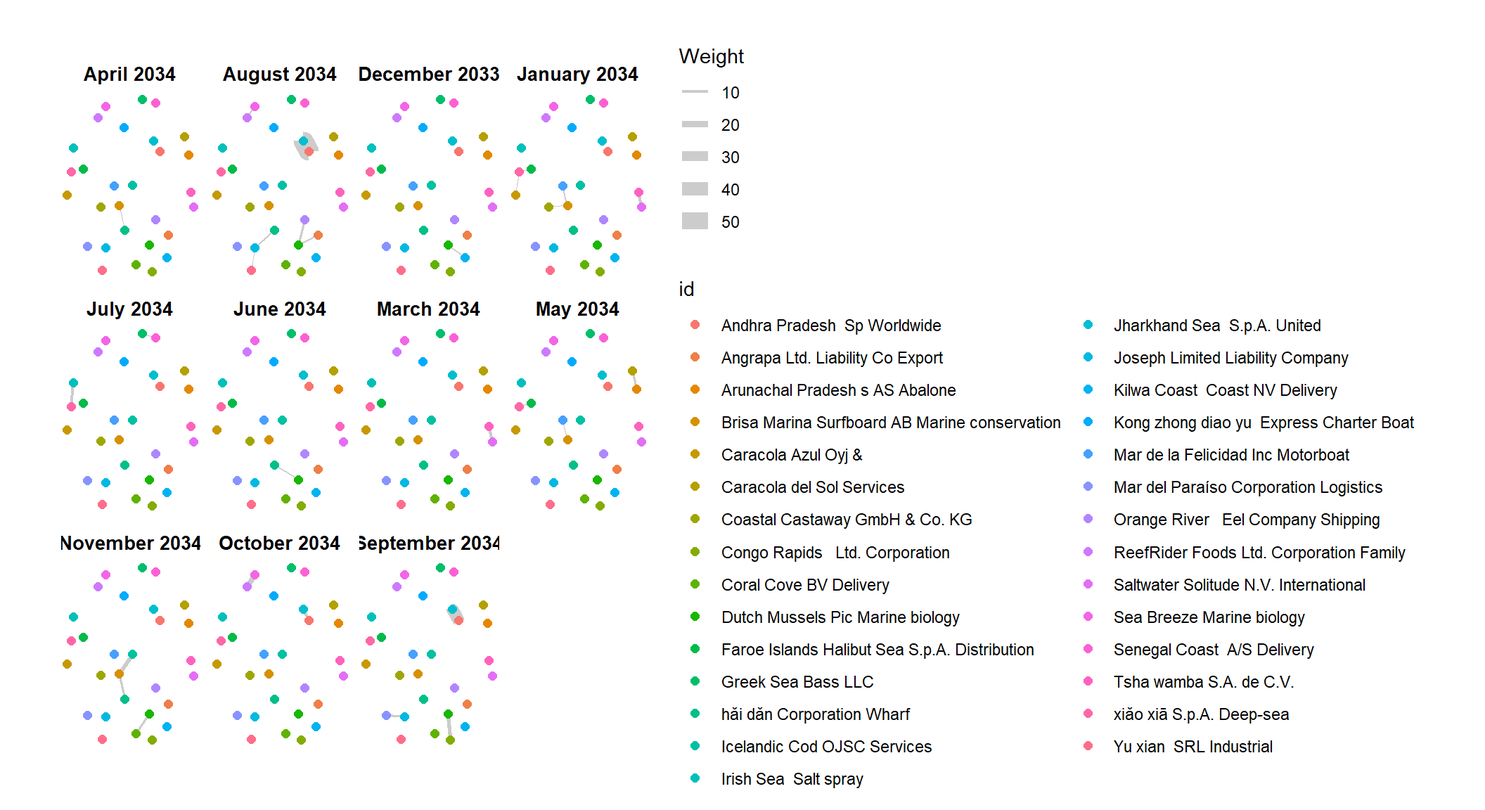
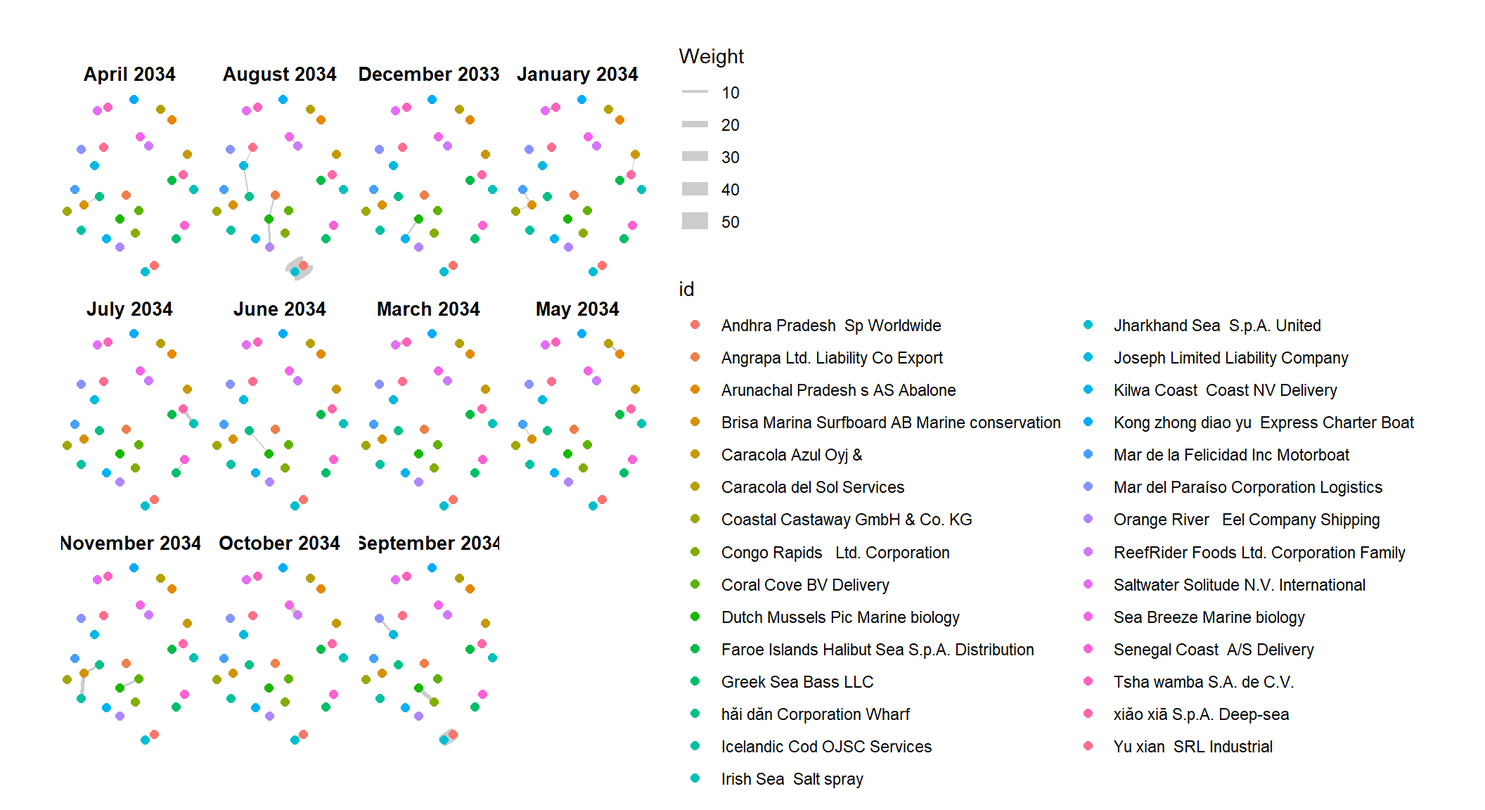
commit take home ex 2

diff --git a/_site/Take-home_Ex/Take-home_Ex02/Take-home_Ex02.html b/_site/Take-home_Ex/Take-home_Ex02/Take-home_Ex02.html
@@ -299,7 +299,7 @@ code span.wa { color: #60a0b0; font-weight: bold; font-style: italic; } /* Warni
     <div>
     <div class="quarto-title-meta-heading">Modified</div>
     <div class="quarto-title-meta-contents">
-      <p class="date-modified">May 26, 2023</p>
+      <p class="date-modified">May 27, 2023</p>
     </div>
   </div>
     
@@ -744,9 +744,15 @@ Note
 <span id="cb32-2"><a href="#cb32-2" aria-hidden="true" tabindex="-1"></a>            <span class="at">layout =</span> <span class="st">"nicely"</span>) <span class="sc">+</span> </span>
 <span id="cb32-3"><a href="#cb32-3" aria-hidden="true" tabindex="-1"></a>  <span class="fu">geom_edge_link</span>(<span class="fu">aes</span>(<span class="at">width=</span>Weight), </span>
 <span id="cb32-4"><a href="#cb32-4" aria-hidden="true" tabindex="-1"></a>                 <span class="at">alpha=</span><span class="fl">0.2</span>) <span class="sc">+</span></span>
-<span id="cb32-5"><a href="#cb32-5" aria-hidden="true" tabindex="-1"></a>  <span class="fu">scale_edge_width</span>(<span class="at">range =</span> <span class="fu">c</span>(<span class="fl">0.1</span>, <span class="dv">5</span>)) <span class="sc">+</span></span>
+<span id="cb32-5"><a href="#cb32-5" aria-hidden="true" tabindex="-1"></a>  <span class="fu">scale_edge_width</span>(<span class="at">range =</span> <span class="fu">c</span>(<span class="fl">0.1</span>, <span class="dv">8</span>)) <span class="sc">+</span></span>
 <span id="cb32-6"><a href="#cb32-6" aria-hidden="true" tabindex="-1"></a>  <span class="fu">geom_node_point</span>(<span class="fu">aes</span>(<span class="at">colour =</span> id), </span>
-<span id="cb32-7"><a href="#cb32-7" aria-hidden="true" tabindex="-1"></a>                  <span class="at">size =</span> <span class="dv">2</span>)</span></code><button title="Copy to Clipboard" class="code-copy-button"><i class="bi"></i></button></pre></div>
+<span id="cb32-7"><a href="#cb32-7" aria-hidden="true" tabindex="-1"></a>                  <span class="at">size =</span> <span class="dv">5</span>) <span class="sc">+</span></span>
+<span id="cb32-8"><a href="#cb32-8" aria-hidden="true" tabindex="-1"></a>  <span class="fu">theme</span>(<span class="at">legend.key.size =</span> <span class="fu">unit</span>(<span class="fl">0.7</span>, <span class="st">'cm'</span>), <span class="co">#change legend key size</span></span>
+<span id="cb32-9"><a href="#cb32-9" aria-hidden="true" tabindex="-1"></a>        <span class="at">legend.key.height =</span> <span class="fu">unit</span>(<span class="fl">0.7</span>, <span class="st">'cm'</span>), <span class="co">#change legend key height</span></span>
+<span id="cb32-10"><a href="#cb32-10" aria-hidden="true" tabindex="-1"></a>        <span class="at">legend.key.width =</span> <span class="fu">unit</span>(<span class="fl">0.7</span>, <span class="st">'cm'</span>), <span class="co">#change legend key width</span></span>
+<span id="cb32-11"><a href="#cb32-11" aria-hidden="true" tabindex="-1"></a>        <span class="at">legend.title =</span> <span class="fu">element_text</span>(<span class="at">size=</span><span class="dv">14</span>), <span class="co">#change legend title font size</span></span>
+<span id="cb32-12"><a href="#cb32-12" aria-hidden="true" tabindex="-1"></a>        <span class="at">legend.text =</span> <span class="fu">element_text</span>(<span class="at">size=</span><span class="dv">12</span>),</span>
+<span id="cb32-13"><a href="#cb32-13" aria-hidden="true" tabindex="-1"></a>        <span class="at">legend.position =</span> <span class="st">"bottom"</span>,<span class="at">legend.direction =</span> <span class="st">"vertical"</span>)</span></code><button title="Copy to Clipboard" class="code-copy-button"><i class="bi"></i></button></pre></div>
 </details>
 <div class="cell-output-display">
 <p><img src="Take-home_Ex02_files/figure-html/unnamed-chunk-14-1.png" class="img-fluid" width="1248"></p>
@@ -762,12 +768,19 @@ Note
 <div class="sourceCode cell-code" id="cb33"><pre class="sourceCode r code-with-copy"><code class="sourceCode r"><span id="cb33-1"><a href="#cb33-1" aria-hidden="true" tabindex="-1"></a>g <span class="ot">&lt;-</span> <span class="fu">ggraph</span>(MC2_graph, </span>
 <span id="cb33-2"><a href="#cb33-2" aria-hidden="true" tabindex="-1"></a>            <span class="at">layout =</span> <span class="st">"nicely"</span>) <span class="sc">+</span> </span>
 <span id="cb33-3"><a href="#cb33-3" aria-hidden="true" tabindex="-1"></a>  <span class="fu">geom_edge_link</span>(<span class="fu">aes</span>(<span class="at">width=</span>Weight), </span>
-<span id="cb33-4"><a href="#cb33-4" aria-hidden="true" tabindex="-1"></a>                 <span class="at">alpha=</span><span class="fl">0.2</span>) <span class="sc">+</span></span>
+<span id="cb33-4"><a href="#cb33-4" aria-hidden="true" tabindex="-1"></a>                 <span class="at">alpha=</span><span class="fl">0.2</span>, <span class="at">show.legend =</span> <span class="st">"top"</span>) <span class="sc">+</span></span>
 <span id="cb33-5"><a href="#cb33-5" aria-hidden="true" tabindex="-1"></a>  <span class="fu">scale_edge_width</span>(<span class="at">range =</span> <span class="fu">c</span>(<span class="fl">0.1</span>, <span class="dv">5</span>)) <span class="sc">+</span></span>
 <span id="cb33-6"><a href="#cb33-6" aria-hidden="true" tabindex="-1"></a>  <span class="fu">geom_node_point</span>(<span class="fu">aes</span>(<span class="at">colour =</span> id), </span>
-<span id="cb33-7"><a href="#cb33-7" aria-hidden="true" tabindex="-1"></a>                  <span class="at">size =</span> <span class="dv">2</span>)</span>
-<span id="cb33-8"><a href="#cb33-8" aria-hidden="true" tabindex="-1"></a></span>
-<span id="cb33-9"><a href="#cb33-9" aria-hidden="true" tabindex="-1"></a>g <span class="sc">+</span> <span class="fu">facet_edges</span>(<span class="sc">~</span>year)</span></code><button title="Copy to Clipboard" class="code-copy-button"><i class="bi"></i></button></pre></div>
+<span id="cb33-7"><a href="#cb33-7" aria-hidden="true" tabindex="-1"></a>                  <span class="at">size =</span> <span class="dv">2</span>) <span class="sc">+</span></span>
+<span id="cb33-8"><a href="#cb33-8" aria-hidden="true" tabindex="-1"></a>  <span class="fu">theme</span>(<span class="at">legend.key.size =</span> <span class="fu">unit</span>(<span class="fl">0.7</span>, <span class="st">'cm'</span>), <span class="co">#change legend key size</span></span>
+<span id="cb33-9"><a href="#cb33-9" aria-hidden="true" tabindex="-1"></a>        <span class="at">legend.key.height =</span> <span class="fu">unit</span>(<span class="fl">0.7</span>, <span class="st">'cm'</span>), <span class="co">#change legend key height</span></span>
+<span id="cb33-10"><a href="#cb33-10" aria-hidden="true" tabindex="-1"></a>        <span class="at">legend.key.width =</span> <span class="fu">unit</span>(<span class="fl">0.7</span>, <span class="st">'cm'</span>), <span class="co">#change legend key width</span></span>
+<span id="cb33-11"><a href="#cb33-11" aria-hidden="true" tabindex="-1"></a>        <span class="at">legend.title =</span> <span class="fu">element_text</span>(<span class="at">size=</span><span class="dv">14</span>), <span class="co">#change legend title font size</span></span>
+<span id="cb33-12"><a href="#cb33-12" aria-hidden="true" tabindex="-1"></a>        <span class="at">legend.text =</span> <span class="fu">element_text</span>(<span class="at">size=</span><span class="dv">12</span>),</span>
+<span id="cb33-13"><a href="#cb33-13" aria-hidden="true" tabindex="-1"></a>        <span class="at">legend.position =</span> <span class="st">"bottom"</span>) <span class="co">#change legend text font size</span></span>
+<span id="cb33-14"><a href="#cb33-14" aria-hidden="true" tabindex="-1"></a>    </span>
+<span id="cb33-15"><a href="#cb33-15" aria-hidden="true" tabindex="-1"></a></span>
+<span id="cb33-16"><a href="#cb33-16" aria-hidden="true" tabindex="-1"></a>g <span class="sc">+</span> <span class="fu">facet_edges</span>(<span class="sc">~</span>year)</span></code><button title="Copy to Clipboard" class="code-copy-button"><i class="bi"></i></button></pre></div>
 </details>
 <div class="cell-output-display">
 <p><img src="Take-home_Ex02_files/figure-html/unnamed-chunk-15-1.png" class="img-fluid" width="1536"></p>
@@ -811,8 +824,8 @@ Note
 <span id="cb35-8"><a href="#cb35-8" aria-hidden="true" tabindex="-1"></a>  <span class="fu">visLayout</span>(<span class="at">randomSeed =</span> <span class="dv">123</span>)</span></code><button title="Copy to Clipboard" class="code-copy-button"><i class="bi"></i></button></pre></div>
 </details>
 <div class="cell-output-display">
-<div class="visNetwork html-widget html-fill-item-overflow-hidden html-fill-item" id="htmlwidget-1a032d8c215b475185db" style="width:100%;height:464px;"></div>
-<script type="application/json" data-for="htmlwidget-1a032d8c215b475185db">{"x":{"nodes":{"id":["Aqua Mermaid Corporation Export","Bahía del Este Oyj Transit","Beachcombers NV and Son's","Blue Nile  N.V. Marine","Caracola del Este Corporation Express","Coastal Cruisers Pic Shipping","French Crab S.p.A. Worldwide","Himachal Pradesh   S.A. de C.V. America","Ianira Starfish Sagl Import","Icelandic Cod Pier ОАО Transport","Isla del Mar Marine Oyj Transit","Lake Kainji  S.p.A. Export","Madhya Pradesh  Market LLC","Maharashtra   Limited Liability Company","Mar del Este Sp","Mar y Luna Sagl","Marine Masterminds Dry dock","Nile   S.A. de C.V.","Náutica del Norte Kga Holdings","Ola Azul Ges.m.b.H. Services","Paradera S.A. de C.V.","Playa del Tesoro BV","Playa del Tesoro OJSC","Saltwater Sanctuary ОАО Merchants","Saltwater Sisters Inc Seafaring","Sea Breezes S.A. de C.V. Freight ","Tamil Nadu  Market Co","The Salty Pearl Kga","Uttar Pradesh s CJSC","bǐ mù yú Sagl Distribution","nián yú Ltd. Corporation","suō yú Incorporated Brothers","-1225","Marine Mavericks Corporation Express","Isla del Este SE","hǎi dǎn Corporation Wharf","Marine Mates Cruise ship","ReefRider Foods Ltd. Corporation Family","Dry Creek Company Services","Saltwater Supreme ОАО Forwading","Isla del Tesoro GmbH & Co. KG Chart","Haryana s Sagl Transport","Kong zhong diao yu  Express Charter Boat ","Panope Limited Liability Company","Himachal Pradesh   Plc International","Sailors and Surfers Incorporated Enterprises","Caracola del Sol Services","Coral Cove BV Delivery","Mar del Este CJSC","Pao gan SE Seal","-2821","Costa de la Felicidad Shipping","Fresh Wharf SRL Consulting","-2105","Togo  S.A. de C.V.","Niger Bend   Limited Liability Company Marine ecology","Sea Breezes GmbH & Co. KG Shark","Arena del Mar Marine Marine biology"],"x":[-0.411990637785963,0.946089038741356,0.292959865717016,-0.544719123578093,-0.380212494604056,0.124281108391973,-0.162112159255376,-0.725067164439328,-0.496266423282484,-0.41537045354498,0.698982418725201,-0.451158641145197,-0.189450721742896,-0.245762884879154,-0.339306690868772,0.0265746974072134,0.304971234808637,-0.0284994268274723,-0.0783400088418722,0.602171700619265,0.644158566433093,0.0855443377796357,-0.265303354839702,0.125489340537089,-0.780926816711105,0.397536658293232,0.212775120367636,-0.748381244061644,0.044442158609898,-0.120652823602641,0.53710793288753,-0.0210006315833818,-0.250559923356521,1,0.425252054647542,-0.206283411960079,0.166813579893456,0.0104231701368318,-0.201664767490129,0.0363729637722023,-0.576978255221984,-0.623089856315557,-0.744265019173606,-0.228971165589007,0.782788307600651,-0.216692010716648,0.0309950463008233,-0.446873017366929,0.450212092853876,0.344427901439838,0.208349403331705,0.18027779671047,-0.114120316761231,-1,-0.698128846765457,0.628502305909071,0.0661883712707998,0.788785489771806],"y":[-0.933258709989185,0.262970238347138,0.937984686524669,-0.0150931135260772,-0.197720564120672,-0.148200722479754,0.387819438521802,-0.747233644718136,0.305836497800756,0.19832118741434,0.656861593289858,-0.399054490834982,-0.345308483954087,-0.253006142288675,0.375972513557401,-0.0101682716547722,0.300056231397607,-0.681732707918833,0.000851666963449293,-0.77034777214914,-0.18938740534255,0.337658794677505,0.985701345051929,-0.693267110051786,-0.0619077961329126,-0.423953380695101,-0.536409036484323,0.173952735071435,-0.0780544184013634,0.126056917690765,-0.07506477768079,-0.166408224220276,-1,0.130509621100738,0.879279671464828,0.0430944333552823,-0.225950650579153,-0.293542551403104,0.664916503290783,0.251263537155767,-0.845626507030548,0.565592002864454,0.449631676370996,0.162143347205534,0.550182142819517,-0.142984530304228,-0.377657437048497,0.0730706594959183,-0.649166683746085,-0.157884111916825,0.592392067319641,0.0608804950593009,1,-0.0757480601893528,-0.245048932900127,-0.337251100829244,0.12699667478179,-0.0474258422956186],"label":["Aqua Mermaid Corporation Export","Bahía del Este Oyj Transit","Beachcombers NV and Son's","Blue Nile  N.V. Marine","Caracola del Este Corporation Express","Coastal Cruisers Pic Shipping","French Crab S.p.A. Worldwide","Himachal Pradesh   S.A. de C.V. America","Ianira Starfish Sagl Import","Icelandic Cod Pier ОАО Transport","Isla del Mar Marine Oyj Transit","Lake Kainji  S.p.A. Export","Madhya Pradesh  Market LLC","Maharashtra   Limited Liability Company","Mar del Este Sp","Mar y Luna Sagl","Marine Masterminds Dry dock","Nile   S.A. de C.V.","Náutica del Norte Kga Holdings","Ola Azul Ges.m.b.H. Services","Paradera S.A. de C.V.","Playa del Tesoro BV","Playa del Tesoro OJSC","Saltwater Sanctuary ОАО Merchants","Saltwater Sisters Inc Seafaring","Sea Breezes S.A. de C.V. Freight ","Tamil Nadu  Market Co","The Salty Pearl Kga","Uttar Pradesh s CJSC","bǐ mù yú Sagl Distribution","nián yú Ltd. Corporation","suō yú Incorporated Brothers","-1225","Marine Mavericks Corporation Express","Isla del Este SE","hǎi dǎn Corporation Wharf","Marine Mates Cruise ship","ReefRider Foods Ltd. Corporation Family","Dry Creek Company Services","Saltwater Supreme ОАО Forwading","Isla del Tesoro GmbH & Co. KG Chart","Haryana s Sagl Transport","Kong zhong diao yu  Express Charter Boat ","Panope Limited Liability Company","Himachal Pradesh   Plc International","Sailors and Surfers Incorporated Enterprises","Caracola del Sol Services","Coral Cove BV Delivery","Mar del Este CJSC","Pao gan SE Seal","-2821","Costa de la Felicidad Shipping","Fresh Wharf SRL Consulting","-2105","Togo  S.A. de C.V.","Niger Bend   Limited Liability Company Marine ecology","Sea Breezes GmbH & Co. KG Shark","Arena del Mar Marine Marine biology"]},"edges":{"from":["Aqua Mermaid Corporation Export","Aqua Mermaid Corporation Export","Bahía del Este Oyj Transit","Beachcombers NV and Son's","Blue Nile  N.V. Marine","Caracola del Este Corporation Express","Caracola del Este Corporation Express","Caracola del Este Corporation Express","Caracola del Este Corporation Express","Coastal Cruisers Pic Shipping","Coastal Cruisers Pic Shipping","Coastal Cruisers Pic Shipping","Coastal Cruisers Pic Shipping","Coastal Cruisers Pic Shipping","Coastal Cruisers Pic Shipping","French Crab S.p.A. Worldwide","French Crab S.p.A. Worldwide","French Crab S.p.A. Worldwide","French Crab S.p.A. Worldwide","Himachal Pradesh   S.A. de C.V. America","Ianira Starfish Sagl Import","Ianira Starfish Sagl Import","Ianira Starfish Sagl Import","Ianira Starfish Sagl Import","Ianira Starfish Sagl Import","Icelandic Cod Pier ОАО Transport","Icelandic Cod Pier ОАО Transport","Icelandic Cod Pier ОАО Transport","Isla del Mar Marine Oyj Transit","Lake Kainji  S.p.A. Export","Madhya Pradesh  Market LLC","Madhya Pradesh  Market LLC","Maharashtra   Limited Liability Company","Maharashtra   Limited Liability Company","Maharashtra   Limited Liability Company","Mar del Este Sp","Mar y Luna Sagl","Mar y Luna Sagl","Mar y Luna Sagl","Mar y Luna Sagl","Mar y Luna Sagl","Mar y Luna Sagl","Mar y Luna Sagl","Mar y Luna Sagl","Marine Masterminds Dry dock","Marine Masterminds Dry dock","Nile   S.A. de C.V.","Náutica del Norte Kga Holdings","Náutica del Norte Kga Holdings","Náutica del Norte Kga Holdings","Náutica del Norte Kga Holdings","Náutica del Norte Kga Holdings","Náutica del Norte Kga Holdings","Náutica del Norte Kga Holdings","Náutica del Norte Kga Holdings","Náutica del Norte Kga Holdings","Ola Azul Ges.m.b.H. Services","Panope Limited Liability Company","Paradera S.A. de C.V.","Playa del Tesoro BV","Playa del Tesoro BV","Playa del Tesoro BV","Playa del Tesoro BV","Playa del Tesoro OJSC","Saltwater Sanctuary ОАО Merchants","Saltwater Sisters Inc Seafaring","Saltwater Sisters Inc Seafaring","Saltwater Sisters Inc Seafaring","Sea Breezes S.A. de C.V. Freight ","Sea Breezes S.A. de C.V. Freight ","Sea Breezes S.A. de C.V. Freight ","Sea Breezes S.A. de C.V. Freight ","Tamil Nadu  Market Co","Tamil Nadu  Market Co","Tamil Nadu  Market Co","The Salty Pearl Kga","Uttar Pradesh s CJSC","Uttar Pradesh s CJSC","Uttar Pradesh s CJSC","Uttar Pradesh s CJSC","Uttar Pradesh s CJSC","Uttar Pradesh s CJSC","Uttar Pradesh s CJSC","bǐ mù yú Sagl Distribution","bǐ mù yú Sagl Distribution","bǐ mù yú Sagl Distribution","bǐ mù yú Sagl Distribution","bǐ mù yú Sagl Distribution","bǐ mù yú Sagl Distribution","bǐ mù yú Sagl Distribution","nián yú Ltd. Corporation","nián yú Ltd. Corporation","nián yú Ltd. Corporation","nián yú Ltd. Corporation","suō yú Incorporated Brothers","suō yú Incorporated Brothers","suō yú Incorporated Brothers","suō yú Incorporated Brothers","suō yú Incorporated Brothers"],"to":["-1225","Isla del Tesoro GmbH & Co. KG Chart","Marine Mavericks Corporation Express","Isla del Este SE","hǎi dǎn Corporation Wharf","Caracola del Sol Services","Coral Cove BV Delivery","Togo  S.A. de C.V.","hǎi dǎn Corporation Wharf","Caracola del Sol Services","Costa de la Felicidad Shipping","Marine Mates Cruise ship","Pao gan SE Seal","ReefRider Foods Ltd. Corporation Family","hǎi dǎn Corporation Wharf","Dry Creek Company Services","Panope Limited Liability Company","Saltwater Supreme ОАО Forwading","hǎi dǎn Corporation Wharf","Isla del Tesoro GmbH & Co. KG Chart","Coral Cove BV Delivery","Haryana s Sagl Transport","Kong zhong diao yu  Express Charter Boat ","Panope Limited Liability Company","hǎi dǎn Corporation Wharf","Coral Cove BV Delivery","Panope Limited Liability Company","hǎi dǎn Corporation Wharf","Himachal Pradesh   Plc International","Sailors and Surfers Incorporated Enterprises","Caracola del Sol Services","hǎi dǎn Corporation Wharf","ReefRider Foods Ltd. Corporation Family","Sailors and Surfers Incorporated Enterprises","hǎi dǎn Corporation Wharf","hǎi dǎn Corporation Wharf","Caracola del Sol Services","Costa de la Felicidad Shipping","Panope Limited Liability Company","Pao gan SE Seal","Sailors and Surfers Incorporated Enterprises","Saltwater Supreme ОАО Forwading","Sea Breezes GmbH & Co. KG Shark","hǎi dǎn Corporation Wharf","Costa de la Felicidad Shipping","Saltwater Supreme ОАО Forwading","Caracola del Sol Services","Coral Cove BV Delivery","Costa de la Felicidad Shipping","Marine Mates Cruise ship","Panope Limited Liability Company","ReefRider Foods Ltd. Corporation Family","Sailors and Surfers Incorporated Enterprises","Saltwater Supreme ОАО Forwading","Sea Breezes GmbH & Co. KG Shark","hǎi dǎn Corporation Wharf","Mar del Este CJSC","Coral Cove BV Delivery","Pao gan SE Seal","-2821","Costa de la Felicidad Shipping","Saltwater Supreme ОАО Forwading","hǎi dǎn Corporation Wharf","Fresh Wharf SRL Consulting","Caracola del Sol Services","-2105","Coral Cove BV Delivery","Togo  S.A. de C.V.","Caracola del Sol Services","Mar del Este CJSC","Niger Bend   Limited Liability Company Marine ecology","Pao gan SE Seal","Caracola del Sol Services","Mar del Este CJSC","ReefRider Foods Ltd. Corporation Family","Coral Cove BV Delivery","Caracola del Sol Services","Costa de la Felicidad Shipping","Panope Limited Liability Company","Pao gan SE Seal","ReefRider Foods Ltd. Corporation Family","Sea Breezes GmbH & Co. KG Shark","hǎi dǎn Corporation Wharf","Coral Cove BV Delivery","Costa de la Felicidad Shipping","Panope Limited Liability Company","Sailors and Surfers Incorporated Enterprises","Saltwater Supreme ОАО Forwading","Sea Breezes GmbH & Co. KG Shark","hǎi dǎn Corporation Wharf","Arena del Mar Marine Marine biology","Costa de la Felicidad Shipping","Niger Bend   Limited Liability Company Marine ecology","Pao gan SE Seal","Caracola del Sol Services","Costa de la Felicidad Shipping","Marine Mates Cruise ship","Sailors and Surfers Incorporated Enterprises","hǎi dǎn Corporation Wharf"],"weight":[3766,1965,2551,2092,10183,3425,1309,2546,14867,23734,3336,10051,1969,2908,6673,3792,2072,26626,1808,9051,7047,8101,14228,8757,4977,2650,1251,9335,2747,12323,1320,2288,1363,1604,8676,3118,1441,5610,18017,1480,1132,16522,1732,6375,2628,26728,14479,6406,2673,2753,5411,2386,1664,5315,1299,4962,7813,4952,1761,7828,7807,1133,1745,6804,1696,3640,3228,9115,9265,1074,2571,4633,1440,1046,13934,3850,6218,8863,14794,2716,4225,20567,11333,1364,5617,4271,1728,12717,2661,8653,3569,5641,10887,2642,2765,6650,4330,1118,6619]},"nodesToDataframe":true,"edgesToDataframe":true,"options":{"width":"100%","height":"100%","nodes":{"shape":"dot","physics":false},"manipulation":{"enabled":false},"edges":{"smooth":false},"physics":{"stabilization":false},"layout":{"randomSeed":123}},"groups":null,"width":null,"height":null,"idselection":{"enabled":true,"style":"width: 150px; height: 26px","useLabels":true,"main":"Select by id"},"byselection":{"enabled":false,"style":"width: 150px; height: 26px","multiple":false,"hideColor":"rgba(200,200,200,0.5)","highlight":false},"main":null,"submain":null,"footer":null,"background":"rgba(0, 0, 0, 0)","igraphlayout":{"type":"square"},"highlight":{"enabled":true,"hoverNearest":false,"degree":1,"algorithm":"all","hideColor":"rgba(200,200,200,0.5)","labelOnly":true},"collapse":{"enabled":false,"fit":false,"resetHighlight":true,"clusterOptions":null,"keepCoord":true,"labelSuffix":"(cluster)"},"legend":{"width":0.2,"useGroups":true,"position":"left","ncol":1,"stepX":100,"stepY":100,"zoom":true}},"evals":[],"jsHooks":[]}</script>
+<div class="visNetwork html-widget html-fill-item-overflow-hidden html-fill-item" id="htmlwidget-026b1a57f8f1037fab07" style="width:100%;height:464px;"></div>
+<script type="application/json" data-for="htmlwidget-026b1a57f8f1037fab07">{"x":{"nodes":{"id":["Aqua Mermaid Corporation Export","Bahía del Este Oyj Transit","Beachcombers NV and Son's","Blue Nile  N.V. Marine","Caracola del Este Corporation Express","Coastal Cruisers Pic Shipping","French Crab S.p.A. Worldwide","Himachal Pradesh   S.A. de C.V. America","Ianira Starfish Sagl Import","Icelandic Cod Pier ОАО Transport","Isla del Mar Marine Oyj Transit","Lake Kainji  S.p.A. Export","Madhya Pradesh  Market LLC","Maharashtra   Limited Liability Company","Mar del Este Sp","Mar y Luna Sagl","Marine Masterminds Dry dock","Nile   S.A. de C.V.","Náutica del Norte Kga Holdings","Ola Azul Ges.m.b.H. Services","Paradera S.A. de C.V.","Playa del Tesoro BV","Playa del Tesoro OJSC","Saltwater Sanctuary ОАО Merchants","Saltwater Sisters Inc Seafaring","Sea Breezes S.A. de C.V. Freight ","Tamil Nadu  Market Co","The Salty Pearl Kga","Uttar Pradesh s CJSC","bǐ mù yú Sagl Distribution","nián yú Ltd. Corporation","suō yú Incorporated Brothers","-1225","Marine Mavericks Corporation Express","Isla del Este SE","hǎi dǎn Corporation Wharf","Marine Mates Cruise ship","ReefRider Foods Ltd. Corporation Family","Dry Creek Company Services","Saltwater Supreme ОАО Forwading","Isla del Tesoro GmbH & Co. KG Chart","Haryana s Sagl Transport","Kong zhong diao yu  Express Charter Boat ","Panope Limited Liability Company","Himachal Pradesh   Plc International","Sailors and Surfers Incorporated Enterprises","Caracola del Sol Services","Coral Cove BV Delivery","Mar del Este CJSC","Pao gan SE Seal","-2821","Costa de la Felicidad Shipping","Fresh Wharf SRL Consulting","-2105","Togo  S.A. de C.V.","Niger Bend   Limited Liability Company Marine ecology","Sea Breezes GmbH & Co. KG Shark","Arena del Mar Marine Marine biology"],"x":[-0.734982045904608,-0.297627048975949,-0.983250891895115,-0.0298889378363771,0.373536869687042,-0.0594594915852148,-0.178185550763718,-0.921981462007983,0.143939415027149,0.158838360842296,1,0.517018449099416,0.34374938511772,0.247668174956908,0.384786294872722,-0.0762952309780384,-0.486694422839266,0.474930868078093,-0.0150404992188092,0.102467732644891,-0.29137023213333,-0.352855628649278,0.312231871961344,0.376323327683036,0.605193308429444,-0.0772466543453776,0.164746491857634,0.455680875983458,-0.019834605089265,-0.0436224595638486,-0.447141130874002,0.00881821834566487,-0.628834081999113,-0.165273390260379,-1,0.074306337117815,-0.197514110396441,0.0971591749043608,-0.345574929739131,-0.248506415809023,-0.838508597026961,0.25162006826383,0.0750883379469887,0.0318409354005431,0.978114928063782,0.172173689614453,0.187764206519234,0.257882940521781,0.0665856028948928,-0.198217014289666,-0.627828703303214,-0.244391018384705,0.449813179134441,0.792726471938803,0.646252689808195,-0.378110542943185,-0.178779032819045,-0.68257382084616],"y":[-0.661322023492635,-0.96025493136314,0.20373837213451,-0.374603174761656,0.0275237852523857,0.320623892037391,-0.283667651149478,-0.387185139502767,-0.416990556830555,-0.284888642420891,0.0308789762271686,0.216772234251192,0.212275932078109,0.189242068580336,-0.16589193556195,0.138411890478488,0.0609365601032987,0.526453241936867,0.0482805117487159,1,0.74451477881026,-0.0786766680526274,-0.987062095852534,0.639030653238802,-0.308330856857989,0.649962661169389,0.626462442331208,-0.461968359662834,0.183359682881973,-0.0690653130891475,0.455582912940764,0.250503948512155,-0.779536145445534,-1,0.0618285390237492,-0.0421089267224597,0.291887291518627,0.355622121863044,-0.514119538382471,-0.0701427873220272,-0.52420533662609,-0.668178226061006,-0.689385528252791,-0.15534276706341,0.179019847418189,0.116150861793958,0.386192879930904,-0.216640355668227,0.830924354228878,0.459645468986904,-0.161976377094368,0.164793154810445,-0.929192778527283,-0.431494913938106,-0.114706850439413,0.670071296119899,0.0355696068293947,0.533106706610482],"label":["Aqua Mermaid Corporation Export","Bahía del Este Oyj Transit","Beachcombers NV and Son's","Blue Nile  N.V. Marine","Caracola del Este Corporation Express","Coastal Cruisers Pic Shipping","French Crab S.p.A. Worldwide","Himachal Pradesh   S.A. de C.V. America","Ianira Starfish Sagl Import","Icelandic Cod Pier ОАО Transport","Isla del Mar Marine Oyj Transit","Lake Kainji  S.p.A. Export","Madhya Pradesh  Market LLC","Maharashtra   Limited Liability Company","Mar del Este Sp","Mar y Luna Sagl","Marine Masterminds Dry dock","Nile   S.A. de C.V.","Náutica del Norte Kga Holdings","Ola Azul Ges.m.b.H. Services","Paradera S.A. de C.V.","Playa del Tesoro BV","Playa del Tesoro OJSC","Saltwater Sanctuary ОАО Merchants","Saltwater Sisters Inc Seafaring","Sea Breezes S.A. de C.V. Freight ","Tamil Nadu  Market Co","The Salty Pearl Kga","Uttar Pradesh s CJSC","bǐ mù yú Sagl Distribution","nián yú Ltd. Corporation","suō yú Incorporated Brothers","-1225","Marine Mavericks Corporation Express","Isla del Este SE","hǎi dǎn Corporation Wharf","Marine Mates Cruise ship","ReefRider Foods Ltd. Corporation Family","Dry Creek Company Services","Saltwater Supreme ОАО Forwading","Isla del Tesoro GmbH & Co. KG Chart","Haryana s Sagl Transport","Kong zhong diao yu  Express Charter Boat ","Panope Limited Liability Company","Himachal Pradesh   Plc International","Sailors and Surfers Incorporated Enterprises","Caracola del Sol Services","Coral Cove BV Delivery","Mar del Este CJSC","Pao gan SE Seal","-2821","Costa de la Felicidad Shipping","Fresh Wharf SRL Consulting","-2105","Togo  S.A. de C.V.","Niger Bend   Limited Liability Company Marine ecology","Sea Breezes GmbH & Co. KG Shark","Arena del Mar Marine Marine biology"]},"edges":{"from":["Aqua Mermaid Corporation Export","Aqua Mermaid Corporation Export","Bahía del Este Oyj Transit","Beachcombers NV and Son's","Blue Nile  N.V. Marine","Caracola del Este Corporation Express","Caracola del Este Corporation Express","Caracola del Este Corporation Express","Caracola del Este Corporation Express","Coastal Cruisers Pic Shipping","Coastal Cruisers Pic Shipping","Coastal Cruisers Pic Shipping","Coastal Cruisers Pic Shipping","Coastal Cruisers Pic Shipping","Coastal Cruisers Pic Shipping","French Crab S.p.A. Worldwide","French Crab S.p.A. Worldwide","French Crab S.p.A. Worldwide","French Crab S.p.A. Worldwide","Himachal Pradesh   S.A. de C.V. America","Ianira Starfish Sagl Import","Ianira Starfish Sagl Import","Ianira Starfish Sagl Import","Ianira Starfish Sagl Import","Ianira Starfish Sagl Import","Icelandic Cod Pier ОАО Transport","Icelandic Cod Pier ОАО Transport","Icelandic Cod Pier ОАО Transport","Isla del Mar Marine Oyj Transit","Lake Kainji  S.p.A. Export","Madhya Pradesh  Market LLC","Madhya Pradesh  Market LLC","Maharashtra   Limited Liability Company","Maharashtra   Limited Liability Company","Maharashtra   Limited Liability Company","Mar del Este Sp","Mar y Luna Sagl","Mar y Luna Sagl","Mar y Luna Sagl","Mar y Luna Sagl","Mar y Luna Sagl","Mar y Luna Sagl","Mar y Luna Sagl","Mar y Luna Sagl","Marine Masterminds Dry dock","Marine Masterminds Dry dock","Nile   S.A. de C.V.","Náutica del Norte Kga Holdings","Náutica del Norte Kga Holdings","Náutica del Norte Kga Holdings","Náutica del Norte Kga Holdings","Náutica del Norte Kga Holdings","Náutica del Norte Kga Holdings","Náutica del Norte Kga Holdings","Náutica del Norte Kga Holdings","Náutica del Norte Kga Holdings","Ola Azul Ges.m.b.H. Services","Panope Limited Liability Company","Paradera S.A. de C.V.","Playa del Tesoro BV","Playa del Tesoro BV","Playa del Tesoro BV","Playa del Tesoro BV","Playa del Tesoro OJSC","Saltwater Sanctuary ОАО Merchants","Saltwater Sisters Inc Seafaring","Saltwater Sisters Inc Seafaring","Saltwater Sisters Inc Seafaring","Sea Breezes S.A. de C.V. Freight ","Sea Breezes S.A. de C.V. Freight ","Sea Breezes S.A. de C.V. Freight ","Sea Breezes S.A. de C.V. Freight ","Tamil Nadu  Market Co","Tamil Nadu  Market Co","Tamil Nadu  Market Co","The Salty Pearl Kga","Uttar Pradesh s CJSC","Uttar Pradesh s CJSC","Uttar Pradesh s CJSC","Uttar Pradesh s CJSC","Uttar Pradesh s CJSC","Uttar Pradesh s CJSC","Uttar Pradesh s CJSC","bǐ mù yú Sagl Distribution","bǐ mù yú Sagl Distribution","bǐ mù yú Sagl Distribution","bǐ mù yú Sagl Distribution","bǐ mù yú Sagl Distribution","bǐ mù yú Sagl Distribution","bǐ mù yú Sagl Distribution","nián yú Ltd. Corporation","nián yú Ltd. Corporation","nián yú Ltd. Corporation","nián yú Ltd. Corporation","suō yú Incorporated Brothers","suō yú Incorporated Brothers","suō yú Incorporated Brothers","suō yú Incorporated Brothers","suō yú Incorporated Brothers"],"to":["-1225","Isla del Tesoro GmbH & Co. KG Chart","Marine Mavericks Corporation Express","Isla del Este SE","hǎi dǎn Corporation Wharf","Caracola del Sol Services","Coral Cove BV Delivery","Togo  S.A. de C.V.","hǎi dǎn Corporation Wharf","Caracola del Sol Services","Costa de la Felicidad Shipping","Marine Mates Cruise ship","Pao gan SE Seal","ReefRider Foods Ltd. Corporation Family","hǎi dǎn Corporation Wharf","Dry Creek Company Services","Panope Limited Liability Company","Saltwater Supreme ОАО Forwading","hǎi dǎn Corporation Wharf","Isla del Tesoro GmbH & Co. KG Chart","Coral Cove BV Delivery","Haryana s Sagl Transport","Kong zhong diao yu  Express Charter Boat ","Panope Limited Liability Company","hǎi dǎn Corporation Wharf","Coral Cove BV Delivery","Panope Limited Liability Company","hǎi dǎn Corporation Wharf","Himachal Pradesh   Plc International","Sailors and Surfers Incorporated Enterprises","Caracola del Sol Services","hǎi dǎn Corporation Wharf","ReefRider Foods Ltd. Corporation Family","Sailors and Surfers Incorporated Enterprises","hǎi dǎn Corporation Wharf","hǎi dǎn Corporation Wharf","Caracola del Sol Services","Costa de la Felicidad Shipping","Panope Limited Liability Company","Pao gan SE Seal","Sailors and Surfers Incorporated Enterprises","Saltwater Supreme ОАО Forwading","Sea Breezes GmbH & Co. KG Shark","hǎi dǎn Corporation Wharf","Costa de la Felicidad Shipping","Saltwater Supreme ОАО Forwading","Caracola del Sol Services","Coral Cove BV Delivery","Costa de la Felicidad Shipping","Marine Mates Cruise ship","Panope Limited Liability Company","ReefRider Foods Ltd. Corporation Family","Sailors and Surfers Incorporated Enterprises","Saltwater Supreme ОАО Forwading","Sea Breezes GmbH & Co. KG Shark","hǎi dǎn Corporation Wharf","Mar del Este CJSC","Coral Cove BV Delivery","Pao gan SE Seal","-2821","Costa de la Felicidad Shipping","Saltwater Supreme ОАО Forwading","hǎi dǎn Corporation Wharf","Fresh Wharf SRL Consulting","Caracola del Sol Services","-2105","Coral Cove BV Delivery","Togo  S.A. de C.V.","Caracola del Sol Services","Mar del Este CJSC","Niger Bend   Limited Liability Company Marine ecology","Pao gan SE Seal","Caracola del Sol Services","Mar del Este CJSC","ReefRider Foods Ltd. Corporation Family","Coral Cove BV Delivery","Caracola del Sol Services","Costa de la Felicidad Shipping","Panope Limited Liability Company","Pao gan SE Seal","ReefRider Foods Ltd. Corporation Family","Sea Breezes GmbH & Co. KG Shark","hǎi dǎn Corporation Wharf","Coral Cove BV Delivery","Costa de la Felicidad Shipping","Panope Limited Liability Company","Sailors and Surfers Incorporated Enterprises","Saltwater Supreme ОАО Forwading","Sea Breezes GmbH & Co. KG Shark","hǎi dǎn Corporation Wharf","Arena del Mar Marine Marine biology","Costa de la Felicidad Shipping","Niger Bend   Limited Liability Company Marine ecology","Pao gan SE Seal","Caracola del Sol Services","Costa de la Felicidad Shipping","Marine Mates Cruise ship","Sailors and Surfers Incorporated Enterprises","hǎi dǎn Corporation Wharf"],"weight":[3766,1965,2551,2092,10183,3425,1309,2546,14867,23734,3336,10051,1969,2908,6673,3792,2072,26626,1808,9051,7047,8101,14228,8757,4977,2650,1251,9335,2747,12323,1320,2288,1363,1604,8676,3118,1441,5610,18017,1480,1132,16522,1732,6375,2628,26728,14479,6406,2673,2753,5411,2386,1664,5315,1299,4962,7813,4952,1761,7828,7807,1133,1745,6804,1696,3640,3228,9115,9265,1074,2571,4633,1440,1046,13934,3850,6218,8863,14794,2716,4225,20567,11333,1364,5617,4271,1728,12717,2661,8653,3569,5641,10887,2642,2765,6650,4330,1118,6619]},"nodesToDataframe":true,"edgesToDataframe":true,"options":{"width":"100%","height":"100%","nodes":{"shape":"dot","physics":false},"manipulation":{"enabled":false},"edges":{"smooth":false},"physics":{"stabilization":false},"layout":{"randomSeed":123}},"groups":null,"width":null,"height":null,"idselection":{"enabled":true,"style":"width: 150px; height: 26px","useLabels":true,"main":"Select by id"},"byselection":{"enabled":false,"style":"width: 150px; height: 26px","multiple":false,"hideColor":"rgba(200,200,200,0.5)","highlight":false},"main":null,"submain":null,"footer":null,"background":"rgba(0, 0, 0, 0)","igraphlayout":{"type":"square"},"highlight":{"enabled":true,"hoverNearest":false,"degree":1,"algorithm":"all","hideColor":"rgba(200,200,200,0.5)","labelOnly":true},"collapse":{"enabled":false,"fit":false,"resetHighlight":true,"clusterOptions":null,"keepCoord":true,"labelSuffix":"(cluster)"},"legend":{"width":0.2,"useGroups":true,"position":"left","ncol":1,"stepX":100,"stepY":100,"zoom":true}},"evals":[],"jsHooks":[]}</script>
 </div>
 </div>
 <div class="callout-note callout callout-style-default callout-captioned">
